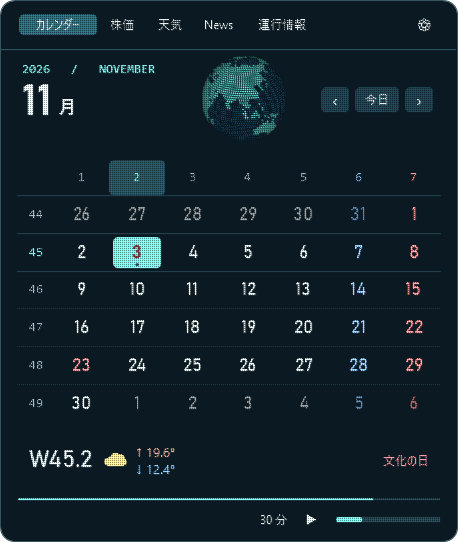
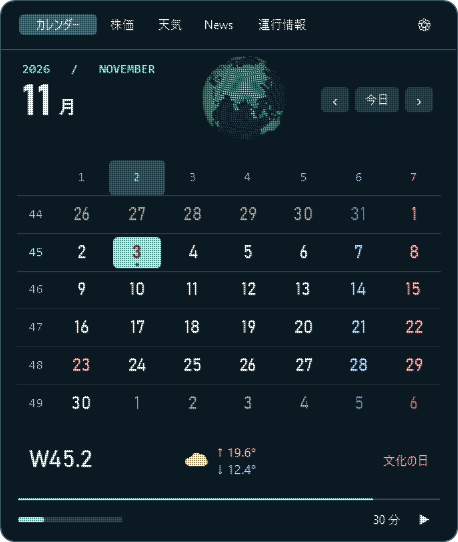
Polish timer spacing, animated loading, news categories and clear transit status

diff --git a/src/Calendar.xaml b/src/Calendar.xaml
@@ -71,28 +71,30 @@
       <Grid Name="Dates" Grid.Row="1" Margin="16,10,16,8"/>
       <Border Grid.Row="2" Background="#152E39" CornerRadius="7" Margin="16,0,16,7" Padding="12,0">
         <Grid>
-          <StackPanel Orientation="Horizontal" VerticalAlignment="Center">
-            <TextBlock Name="SelectedDate" FontSize="24" FontFamily="Bahnschrift" VerticalAlignment="Center"/>
-            <TextBlock Name="TodayWeather" Text="" FontSize="26" FontFamily="Segoe UI Symbol" Foreground="#F4DD8E"
-                       VerticalAlignment="Center" Margin="12,0,0,0"/>
+          <Grid.ColumnDefinitions><ColumnDefinition Width="100"/><ColumnDefinition/><ColumnDefinition Width="118"/></Grid.ColumnDefinitions>
+          <TextBlock Name="SelectedDate" FontSize="24" FontFamily="Bahnschrift" VerticalAlignment="Center"/>
+          <StackPanel Name="TodayWeatherGroup" Grid.Column="1" Orientation="Horizontal" HorizontalAlignment="Center" VerticalAlignment="Center">
+            <TextBlock Name="TodayWeather" Text="" FontSize="26" FontFamily="Segoe UI Symbol" Foreground="#F4DD8E" VerticalAlignment="Center"/>
             <StackPanel Name="TodayTemperatures" Margin="9,0,0,0" VerticalAlignment="Center"><TextBlock Name="TodayHigh" FontSize="13" Foreground="#F4B09F"/><TextBlock Name="TodayLow" FontSize="13" Foreground="#8EC5FF"/></StackPanel>
           </StackPanel>
-          <TextBlock Name="HolidayName" MaxWidth="126" TextTrimming="CharacterEllipsis" FontSize="12" Foreground="#FF9699" HorizontalAlignment="Right" VerticalAlignment="Center"/>
+          <TextBlock Name="HolidayName" Grid.Column="2" MaxWidth="118" TextTrimming="CharacterEllipsis" FontSize="12" Foreground="#FF9699" HorizontalAlignment="Right" VerticalAlignment="Center"/>
+
         </Grid>
       </Border>
       <Grid Grid.Row="3" Margin="17,0">
         <Border Background="#25424C" Height="2" VerticalAlignment="Top"/>
         <Border Name="YearGauge" Background="#7BE5DA" Height="2" HorizontalAlignment="Left" VerticalAlignment="Top"/>
+          <Grid Name="TimerProgressTrack" Width="104" Height="5" HorizontalAlignment="Left" VerticalAlignment="Center" Visibility="Collapsed" Background="#25424C"><Border Name="TimerProgress" Width="0" HorizontalAlignment="Left" Background="#7BE5DA" CornerRadius="2"/></Grid>
         <StackPanel Orientation="Horizontal" HorizontalAlignment="Right" VerticalAlignment="Center">
           <Button Name="TimerDuration" Content="30 分" ToolTip="タイマーの時間を選択"/>
           <Button Name="FocusButton" Content="▶" Width="32" ToolTip="タイマーを開始・停止"/>
-          <Grid Name="TimerProgressTrack" Width="104" Height="5" Margin="9,0,0,0" Visibility="Collapsed" Background="#25424C"><Border Name="TimerProgress" Width="0" HorizontalAlignment="Left" Background="#7BE5DA" CornerRadius="2"/></Grid>
         </StackPanel>
       </Grid>
       </Grid>
       <StackPanel Grid.Row="1" Name="DataBody" Margin="20,12" Visibility="Collapsed">
         <Grid Name="DataHeader" Height="25">
           <StackPanel Orientation="Horizontal" VerticalAlignment="Center"><TextBlock Name="SectionLabel" Foreground="#86E8DE" FontFamily="Consolas" FontSize="13" VerticalAlignment="Center"/><Button Name="MarketRange" Content="3 MONTHS ▾" FontFamily="Consolas" Foreground="#86E8DE" FontSize="13" Padding="5,2" Visibility="Collapsed"/></StackPanel>
+          <StackPanel Name="NewsCategories" Orientation="Horizontal" HorizontalAlignment="Right" VerticalAlignment="Center" Visibility="Collapsed"><Button Name="NewsCategory0" Content="総合"/><Button Name="NewsCategory1" Content="経済" Margin="4,0,0,0"/><Button Name="NewsCategory2" Content="IT" Margin="4,0,0,0"/></StackPanel>
           <StackPanel Name="WeatherSwitch" Orientation="Horizontal" HorizontalAlignment="Right" VerticalAlignment="Center" Visibility="Collapsed"><Button Name="RainMode" Content="雨雲" Background="#296675"/><Button Name="DailyMode" Content="3日間の天気" Margin="5,0,0,0"/></StackPanel>
         </Grid>
         <TextBlock Name="DataTitle" TextTrimming="CharacterEllipsis" ToolTip="{Binding Text, RelativeSource={RelativeSource Self}}" FontSize="25" FontWeight="SemiBold" Margin="0,6,0,0"/>
@@ -128,6 +130,7 @@
         </Grid>
         <Button Name="DataSource" HorizontalAlignment="Left" Foreground="#A6D3D6" Padding="0,2"/>
       </StackPanel>
+      <Grid Name="LoadingArea" Grid.Row="1" Margin="20,153,20,24" Background="#0B1923" Visibility="Collapsed" IsHitTestVisible="False" AutomationProperties.Name="データを読み込んでいます"/>
         <Border Name="PlaceConfirm" Grid.RowSpan="2" Width="400" HorizontalAlignment="Center" VerticalAlignment="Bottom" Background="#102835" Padding="7" BorderThickness="1" BorderBrush="#528793" CornerRadius="6" Margin="0,0,0,51" Visibility="Collapsed">
           <StackPanel>
             <TextBlock Name="PlaceSummary" Foreground="#B8E9E4" FontSize="12" TextWrapping="Wrap"/>

diff --git a/src/InformationViews.cs b/src/InformationViews.cs
@@ -24,24 +24,28 @@ namespace OrbitCalendar
             var request = new CancellationTokenSource(); loading = request; StopRadar();
             bool news = mode == 3; int requestedMode = mode, key = news ? choice[3] : 10;
             foreach (string name in new[] { "MarketRange", "WeatherSwitch", "Plot", "TemperaturePlot", "DailyWeatherBody", "RadarControls", "RainLegend", "RadarRange", "MapTools", "MapHint", "PlotCaption", "MarketScroll", "ManageMarkets" }) SetVisible(name, false);
-            SetVisible("InformationBody", true); SetVisible("RegionChoices", true); SetVisible("DataChoices", true); SetVisible("DataSource", false);
+            SetVisible("NewsCategories", news);
+            SetVisible("InformationBody", true); SetVisible("RegionChoices", !news); SetVisible("DataChoices", true); SetVisible("DataSource", false);
             string[] labels = news ? new[] { "総合", "経済", "IT" } : new[] { "近隣", "JR", "私鉄" };
             for (int i = 0; i < choices.Length; i++)
             {
                 choices[i].Visibility = i < labels.Length ? Visibility.Visible : Visibility.Collapsed;
                 if (i < labels.Length) { choices[i].Content = labels[i]; choices[i].Background = i == choice[mode] ? activeTab : Brushes.Transparent; }
             }
+            for (int i = 0; i < 3; i++) Get<Button>("NewsCategory" + i).Background = i == choice[3] ? activeTab : Brushes.Transparent;
             Get<TextBlock>("SectionLabel").Text = news ? "NEWS" : "TRANSIT   /   YOKOHAMA";
             Get<TextBlock>("DataTitle").Text = news ? "ニュース" : "運行情報";
             Get<Button>("DataSource").Content = news ? "配信元のRSS ↗" : "各路線をクリックで公式情報 ↗";
-            Get<TextBlock>("DataStamp").Text = "情報を取得中…";
+            Get<TextBlock>("DataStamp").Text = "";
             Get<Button>("RefreshData").IsEnabled = false;
             if (informationKey != key) { information = null; Get<StackPanel>("InformationBody").Children.Clear(); infoPage = 0; }
+            BeginDataLoading(request);
             UpdateLayout(); effect.Start(true);
             try
             {
                 var feed = news ? await InformationFeeds.News(key, force, request.Token) : await InformationFeeds.Transit(force, request.Token);
                 if (request.IsCancellationRequested || mode != requestedMode) return;
+                EndDataLoading(request);
                 information = feed; informationKey = key;
                 RenderInformation(false); nextUpdate = feed.Fetched.AddMinutes(news ? 10 : 5);
             }
@@ -54,6 +58,7 @@ namespace OrbitCalendar
             }
             finally
             {
+                EndDataLoading(request);
                 if (loading == request) { loading = null; Get<Button>("RefreshData").IsEnabled = true; UpdateLayout(); effect.Refresh(); RefreshViewAfterLayout(); }
                 request.Dispose();
             }
@@ -62,9 +67,22 @@ namespace OrbitCalendar
         {
             bool news = mode == 3;
             if (news) { RenderNewsArticle(stale); return; }
-            var items = information.Items.Where(i => i.Normal == false && (choice[4] == 0 || (choice[4] == 1 ? i.Source == "JR東日本" : i.Source != "JR東日本"))).ToArray();
+            var routes = information.Items.Where(i => choice[4] == 0 || (choice[4] == 1 ? i.Source == "JR東日本" : i.Source != "JR東日本")).ToArray();
+            var items = routes.Where(i => i.Normal == false).ToArray();
             Get<TextBlock>("DataStamp").Text = information.Fetched.AddHours(9).ToString("HH:mm") + " 確認" + (stale ? " · 更新失敗（前回の情報）" : information.PartialFailure ? " · 一部の路線は確認できません" : "");
             var body = Get<StackPanel>("InformationBody"); body.Children.Clear();
+            if (items.Length == 0)
+            {
+                bool clear = !stale && routes.Length > 0 && Array.TrueForAll(routes, r => r.Normal == true);
+                string title = clear ? "現在、運行に大きな乱れはありません" : stale ? "前回の確認では、遅延等の掲載はありません" : "運行情報を確認できない路線があります";
+                string detail = clear ? "対象路線に遅延・見合わせの発表はありません" : stale ? "更新できませんでした。最新情報は各社公式サイトへ" : "情報がない路線を平常運転とは判断していません";
+                var status = new StackPanel();
+                status.Children.Add(new TextBlock { Text = clear ? "✓" : "—", FontSize = 25, Foreground = clear ? aqua : muted });
+                status.Children.Add(new TextBlock { Text = title, FontSize = 16, TextWrapping = TextWrapping.Wrap, Foreground = clear ? aqua : muted, Margin = new Thickness(0, 9, 0, 7) });
+                status.Children.Add(new TextBlock { Text = detail, FontSize = 12, TextWrapping = TextWrapping.Wrap, Foreground = muted });
+                body.Children.Add(new Border { Child = status, Padding = new Thickness(18), Margin = new Thickness(0, 16, 0, 0), CornerRadius = new CornerRadius(8), Background = Art.Ink("#152E39"), Tag = clear ? "transit-clear" : stale ? "transit-stale" : "transit-unavailable" });
+                return;
+            }
             int perPage = 3;
             int pages = Math.Max(1, (items.Length + perPage - 1) / perPage); infoPage = Math.Max(0, Math.Min(infoPage, pages - 1));
             foreach (var item in items.Skip(infoPage * perPage).Take(perPage))

diff --git a/src/NewsViews.cs b/src/NewsViews.cs
@@ -19,6 +19,7 @@ namespace OrbitCalendar
         }
         void RenderNewsArticle(bool stale)
         {
+            newsLoadingDots = null;
             var body = Get<StackPanel>("InformationBody"); body.Children.Clear();
             if (information == null || information.Items.Length == 0) return;
             infoPage = Math.Max(0, Math.Min(infoPage, information.Items.Length - 1));
@@ -28,9 +29,10 @@ namespace OrbitCalendar
             content.Children.Add(new TextBlock { Text = item.Title, FontSize = 17, Foreground = Art.Ink("#E3F4F4"), TextWrapping = TextWrapping.Wrap, MaxHeight = 46, LineHeight = 23, LineStackingStrategy = LineStackingStrategy.BlockLineHeight, TextTrimming = TextTrimming.CharacterEllipsis, ToolTip = item.Title, Tag = "news-title" });
             var photo = new Grid { Width = 394, Height = 142, Margin = new Thickness(0, 8, 0, 8), Background = Art.Ink("#152E39"), ClipToBounds = true };
             if (item.Picture != null) photo.Children.Add(new Image { Source = item.Picture, Stretch = Stretch.UniformToFill, Width = 394, Height = 142, Tag = "news-image" });
-            else photo.Children.Add(new TextBlock { Text = item.DetailsLoaded ? "画像はありません" : "画像を取得中…", Foreground = Art.Ink("#92B5BE"), FontSize = 12, HorizontalAlignment = HorizontalAlignment.Center, VerticalAlignment = VerticalAlignment.Center });
+            else if (!item.DetailsLoaded) { newsLoadingDots = new LoadingDots(); photo.Children.Add(newsLoadingDots); }
+            else photo.Children.Add(new TextBlock { Text = "画像はありません", Foreground = Art.Ink("#92B5BE"), FontSize = 12, HorizontalAlignment = HorizontalAlignment.Center, VerticalAlignment = VerticalAlignment.Center });
             content.Children.Add(photo);
-            content.Children.Add(new TextBlock { Text = item.Description.Length > 0 ? item.Description : item.DetailsLoaded ? "説明文を取得できませんでした" : "説明文を取得中…", FontSize = 13, Foreground = Art.Ink("#C5DEE2"), TextWrapping = TextWrapping.Wrap, MaxHeight = 54, LineHeight = 18, LineStackingStrategy = LineStackingStrategy.BlockLineHeight, TextTrimming = TextTrimming.CharacterEllipsis, ToolTip = item.Description, Tag = "news-description" });
+            content.Children.Add(new TextBlock { Text = item.Description.Length > 0 ? item.Description : item.DetailsLoaded ? "説明文を取得できませんでした" : "", FontSize = 13, Foreground = Art.Ink("#C5DEE2"), TextWrapping = TextWrapping.Wrap, MaxHeight = 54, LineHeight = 18, LineStackingStrategy = LineStackingStrategy.BlockLineHeight, TextTrimming = TextTrimming.CharacterEllipsis, ToolTip = item.Description, Tag = "news-description" });
             content.Children.Add(new TextBlock { Text = item.Source + (item.Published.HasValue ? " · " + item.Published.Value.ToOffset(TimeSpan.FromHours(9)).ToString("M/d HH:mm") : " · 配信時刻なし"), Foreground = Art.Ink("#92B5BE"), FontSize = 10, Margin = new Thickness(0, 8, 0, 0) });
             var card = new Button { Content = content, Padding = new Thickness(10, 9, 10, 9), Margin = new Thickness(0, 7, 0, 0), HorizontalAlignment = HorizontalAlignment.Left, ToolTip = "クリックして次の記事へ", Tag = "news-card" };
             AutomationProperties.SetName(card, "次の記事"); card.Click += delegate { MoveNews(1); }; body.Children.Add(card);

diff --git a/src/LoadingAnimation.cs b/src/LoadingAnimation.cs
@@ -1,0 +1,69 @@
+using System;
+using System.Threading;
+using System.Windows;
+using System.Windows.Automation;
+using System.Windows.Controls;
+using System.Windows.Media;
+using System.Windows.Threading;
+
+namespace OrbitCalendar
+{
+    internal sealed class LoadingDots : FrameworkElement
+    {
+        public double Phase;
+        public LoadingDots() { Width = 82; Height = 38; HorizontalAlignment = HorizontalAlignment.Center; VerticalAlignment = VerticalAlignment.Center; IsHitTestVisible = false; AutomationProperties.SetName(this, "読み込み中"); }
+        protected override void OnRender(DrawingContext dc)
+        {
+            for (int i = 0; i < 6; i++)
+            {
+                double wave = .5 + .5 * Math.Sin(Phase * 4.5 - i * .8);
+                var brush = new SolidColorBrush(Color.FromRgb((byte)(65 + wave * 60), (byte)(125 + wave * 110), (byte)(145 + wave * 80)));
+                dc.DrawEllipse(brush, null, new Point(11 + i * 12, 19 - Math.Sin(Phase * 4.5 - i * .8) * 5), 1.5 + 1.2 * wave, 1.5 + 1.2 * wave);
+            }
+        }
+    }
+    internal partial class CalendarPanel
+    {
+        readonly DispatcherTimer loadingAnimation = new DispatcherTimer { Interval = TimeSpan.FromMilliseconds(80) };
+        readonly System.Diagnostics.Stopwatch loadingClock = System.Diagnostics.Stopwatch.StartNew();
+        LoadingDots mainLoadingDots, newsLoadingDots;
+        CancellationTokenSource dataLoadingOwner;
+        void InitializeLoading()
+        {
+            mainLoadingDots = new LoadingDots(); Get<Grid>("LoadingArea").Children.Add(mainLoadingDots);
+            loadingAnimation.Tick += delegate
+            {
+                if (!IsVisible || IsClosing || mode < 2) return;
+                var dots = dataLoadingOwner != null ? mainLoadingDots : mode == 3 && newsPreview != null ? newsLoadingDots : null;
+                if (dots == null || !dots.IsVisible || !SystemParameters.ClientAreaAnimation) return;
+                dots.Phase = loadingClock.Elapsed.TotalSeconds; dots.InvalidateVisual();
+                effect.RefreshArea(PanelBounds(dots));
+            };
+            IsVisibleChanged += delegate { if (IsVisible) loadingAnimation.Start(); else loadingAnimation.Stop(); };
+            Closed += delegate { loadingAnimation.Stop(); };
+            for (int i = 0; i < 3; i++)
+            {
+                int category = i;
+                Get<Button>("NewsCategory" + i).Click += delegate { if (mode == 3) { choice[3] = category; infoPage = 0; LoadView(false); } };
+            }
+        }
+        void BeginDataLoading(CancellationTokenSource owner)
+        {
+            dataLoadingOwner = owner;
+            var host = Get<Grid>("LoadingArea");
+            var choices = PanelBounds(Get<Grid>("DataChoices"));
+            double rowTop = Get<Grid>("Face").RowDefinitions[0].ActualHeight;
+            host.Margin = new Thickness(14, Math.Max(0, choices.Bottom - rowTop + 2), 14, 14);
+            host.Visibility = Visibility.Visible;
+        }
+        void EndDataLoading(CancellationTokenSource owner)
+        {
+            if (dataLoadingOwner != owner) return;
+            ClearDataLoading();
+        }
+        void ClearDataLoading()
+        {
+            dataLoadingOwner = null; Get<Grid>("LoadingArea").Visibility = Visibility.Collapsed;
+        }
+    }
+}

diff --git a/src/TimerVisuals.cs b/src/TimerVisuals.cs
@@ -37,7 +37,8 @@ namespace OrbitCalendar
     }
     internal sealed class ParticleTimer : Window
     {
-        readonly Grid root = new Grid { Width = 188, Height = 52 };
+        readonly Grid root = new Grid { Width = 126, Height = 52 };
+        readonly System.Collections.Generic.Dictionary<int, double> clockWidths = new System.Collections.Generic.Dictionary<int, double>();
         readonly TextBlock label = new TextBlock { FontSize = 23, FontFamily = new FontFamily("Bahnschrift"), Foreground = Art.Ink("#7BE5DA"), VerticalAlignment = VerticalAlignment.Center, Margin = new Thickness(52, 0, 18, 0) };
         readonly Hourglass glass = new Hourglass { HorizontalAlignment = HorizontalAlignment.Left, VerticalAlignment = VerticalAlignment.Center, Margin = new Thickness(13, 0, 0, 0) };
         readonly Border gauge = new Border { Width = 3, Height = 0, VerticalAlignment = VerticalAlignment.Bottom, Background = Art.Ink("#7BE5DA") };
@@ -61,9 +62,19 @@ namespace OrbitCalendar
             };
             Closed += delegate { motion.Stop(); effect.Stop(); };
         }
+        public double PreferredWidth { get { return root.Width; } }
         public void Update(string remaining, double progress)
         {
-            label.Text = remaining; glass.Progress = Math.Max(0, Math.Min(1, progress)); glass.InvalidateVisual(); gauge.Height = glass.Progress * 30;
+            label.Text = remaining;
+            double width;
+            if (!clockWidths.TryGetValue(remaining.Length, out width))
+            {
+                var measure = new TextBlock { Text = remaining.Length > 5 ? "000:00" : "00:00", FontFamily = label.FontFamily, FontSize = label.FontSize, Margin = label.Margin };
+                measure.Measure(new Size(double.PositiveInfinity, double.PositiveInfinity));
+                clockWidths[remaining.Length] = width = Math.Max(124, Math.Ceiling(measure.DesiredSize.Width + 2));
+            }
+            root.Width = width;
+            glass.Progress = Math.Max(0, Math.Min(1, progress)); glass.InvalidateVisual(); gauge.Height = glass.Progress * 30;
             if (IsVisible) effect.Refresh();
         }
     }
@@ -74,10 +85,17 @@ namespace OrbitCalendar
         public void UpdateTimerProgress(double progress, bool running)
         {
             if (!running && !lastTimerGauge && lastTimerProgress >= 0) return;
+            bool appearing = running && !lastTimerGauge;
+            var track = Get<Grid>("TimerProgressTrack");
+            Rect bounds = track.Visibility == Visibility.Visible ? PanelBounds(track) : Rect.Empty;
             lastTimerGauge = running; lastTimerProgress = progress;
-            Get<Grid>("TimerProgressTrack").Visibility = running ? Visibility.Visible : Visibility.Collapsed;
+            track.Visibility = running ? Visibility.Visible : Visibility.Collapsed;
             Get<Border>("TimerProgress").Width = 104 * Math.Max(0, Math.Min(1, progress));
-            if (mode == 0 && IsVisible) effect.Refresh();
+            if (mode != 0 || !IsVisible || IsClosing) return;
+            if (running) bounds = PanelBounds(track);
+            if (appearing) effect.StartArea(bounds, true);
+            else if (!bounds.IsEmpty) effect.RefreshArea(bounds);
+
         }
     }
 }

diff --git a/src/WeatherViews.cs b/src/WeatherViews.cs
@@ -26,6 +26,8 @@ namespace OrbitCalendar
         void SetVisible(string name, bool visible) { Get<FrameworkElement>(name).Visibility = visible ? Visibility.Visible : Visibility.Collapsed; }
         void PrepareStandardView()
         {
+            ClearDataLoading();
+            SetVisible("NewsCategories", false);
             SetVisible("InformationBody", false); SetVisible("DailyWeatherBody", false);
             SetVisible("WeatherSwitch", mode == 2); SetVisible("Plot", true); SetVisible("TemperaturePlot", mode == 2);
             SetVisible("DataChoices", true); SetVisible("MarketRange", mode == 1); SetVisible("DataSource", false);
@@ -41,6 +43,7 @@ namespace OrbitCalendar
             if (loading != null) loading.Cancel();
             var request = new CancellationTokenSource(); loading = request;
             StopRadar();
+            SetVisible("NewsCategories", false);
             SetVisible("InformationBody", false); SetVisible("DailyWeatherBody", true); SetVisible("WeatherSwitch", true);
             foreach (string name in new[] { "Plot", "TemperaturePlot", "RadarControls", "RainLegend", "RadarRange", "MapTools", "MapHint", "PlotCaption", "MarketScroll", "ManageMarkets" }) SetVisible(name, false);
             SetVisible("DataChoices", true); SetVisible("RegionChoices", false); SetVisible("DataSource", false);
@@ -48,15 +51,17 @@ namespace OrbitCalendar
             Get<TextBlock>("SectionLabel").Text = "WEATHER";
             SetVisible("MarketRange", false);
             Get<TextBlock>("DataTitle").Text = "今日・明日・明後日";
-            Get<TextBlock>("DataStamp").Text = "基準地点の予報を取得中…";
+            Get<TextBlock>("DataStamp").Text = "";
             Get<Button>("DataSource").Content = "Open-Meteo ↗ · 予報は随時変わります";
             Get<Button>("RefreshData").IsEnabled = false;
             Get<StackPanel>("DailyWeatherBody").Children.Clear();
+            BeginDataLoading(request);
             UpdateLayout(); effect.Start(true);
             try
             {
                 var result = await LiveData.ForecastWeather(request.Token, force);
                 if (request.IsCancellationRequested) return;
+                EndDataLoading(request);
                 weatherForecast = result; RenderDailyWeather(); nextUpdate = result.Fetched.AddMinutes(15);
                 var midnight = DateTime.UtcNow.AddHours(9).Date.AddDays(1).AddHours(-9);
                 if (nextUpdate > midnight) nextUpdate = midnight;
@@ -68,6 +73,7 @@ namespace OrbitCalendar
             }
             finally
             {
+                EndDataLoading(request);
                 if (loading == request) { loading = null; Get<Button>("RefreshData").IsEnabled = true; UpdateLayout(); effect.Refresh(); RefreshViewAfterLayout(); }
                 request.Dispose();
             }

diff --git a/src/DataViews.cs b/src/DataViews.cs
@@ -33,6 +33,7 @@ namespace OrbitCalendar
             InitializePlacePicker();
             InitializeMarketSettings();
             InitializeRangeAndCredits();
+            InitializeLoading();
             radarPlayback.Interval = TimeSpan.FromMilliseconds(33);
             radarPlayback.Tick += delegate { AdvanceRadarPlayback(); };
             Get<Button>("RadarPlay").Click += delegate
@@ -78,6 +79,7 @@ namespace OrbitCalendar
         void SwitchView(int value)
         {
             CancelNewsPreview();
+            ClearDataLoading();
             CloseMarketSettings();
             Get<Border>("RangePicker").Visibility = Visibility.Collapsed;
             Get<Border>("CreditsPicker").Visibility = Visibility.Collapsed;
@@ -173,7 +175,8 @@ namespace OrbitCalendar
                 }
                 if (fetch)
                 {
-                    stamp.Text = view == null ? (!market && index == 0 ? "現在地と雨雲を確認中…" : "データを取得中…") : view.Stamp + "  ·  更新中";
+                    stamp.Text = market ? (view == null ? "データを取得中…" : view.Stamp + " · 更新中") : view == null ? "" : view.Stamp;
+                    if (!market) BeginDataLoading(request);
                     refresh.IsEnabled = false;
                 }
                 UpdateLayout();
@@ -185,6 +188,7 @@ namespace OrbitCalendar
                     if (market) { marketSaved[MarketCacheKey(instrument)] = view; Watchlist.Confirm(instrument); }
                     else if (requestedViewport == null) saved[key] = view;
                     if (!market) { weatherForecast = await TryForecast(request.Token, force); if (request.IsCancellationRequested) return; }
+                    EndDataLoading(request);
                     ShowData(view);
                     UpdateLayout();
                     effect.Start(true);
@@ -215,6 +219,7 @@ namespace OrbitCalendar
             }
             finally
             {
+                EndDataLoading(request);
                 if (loading == request)
                 {
                     loading = null;

diff --git a/src/CalendarPanel.cs b/src/CalendarPanel.cs
@@ -218,6 +218,7 @@ namespace OrbitCalendar
             Get<Border>("CreditsPicker").Visibility = Visibility.Collapsed;
             StopRadar();
             CancelNewsPreview();
+            ClearDataLoading();
             if (loading != null) { loading.Cancel(); nextUpdate = DateTime.MinValue; }
             CancelPlaceSelection();
             Get<Border>("TimerPicker").Visibility = Visibility.Collapsed;

diff --git a/src/Shell.cs b/src/Shell.cs
@@ -113,7 +113,7 @@ namespace OrbitCalendar
             if (focus.Length > 0 && !panel.IsVisible)
             {
                 countdown.Update(focus, progress);
-                Position(countdown, 188, 52);
+                Position(countdown, countdown.PreferredWidth, 52);
                 if (!countdown.IsVisible) countdown.Show();
             }
             else countdown.Hide();
